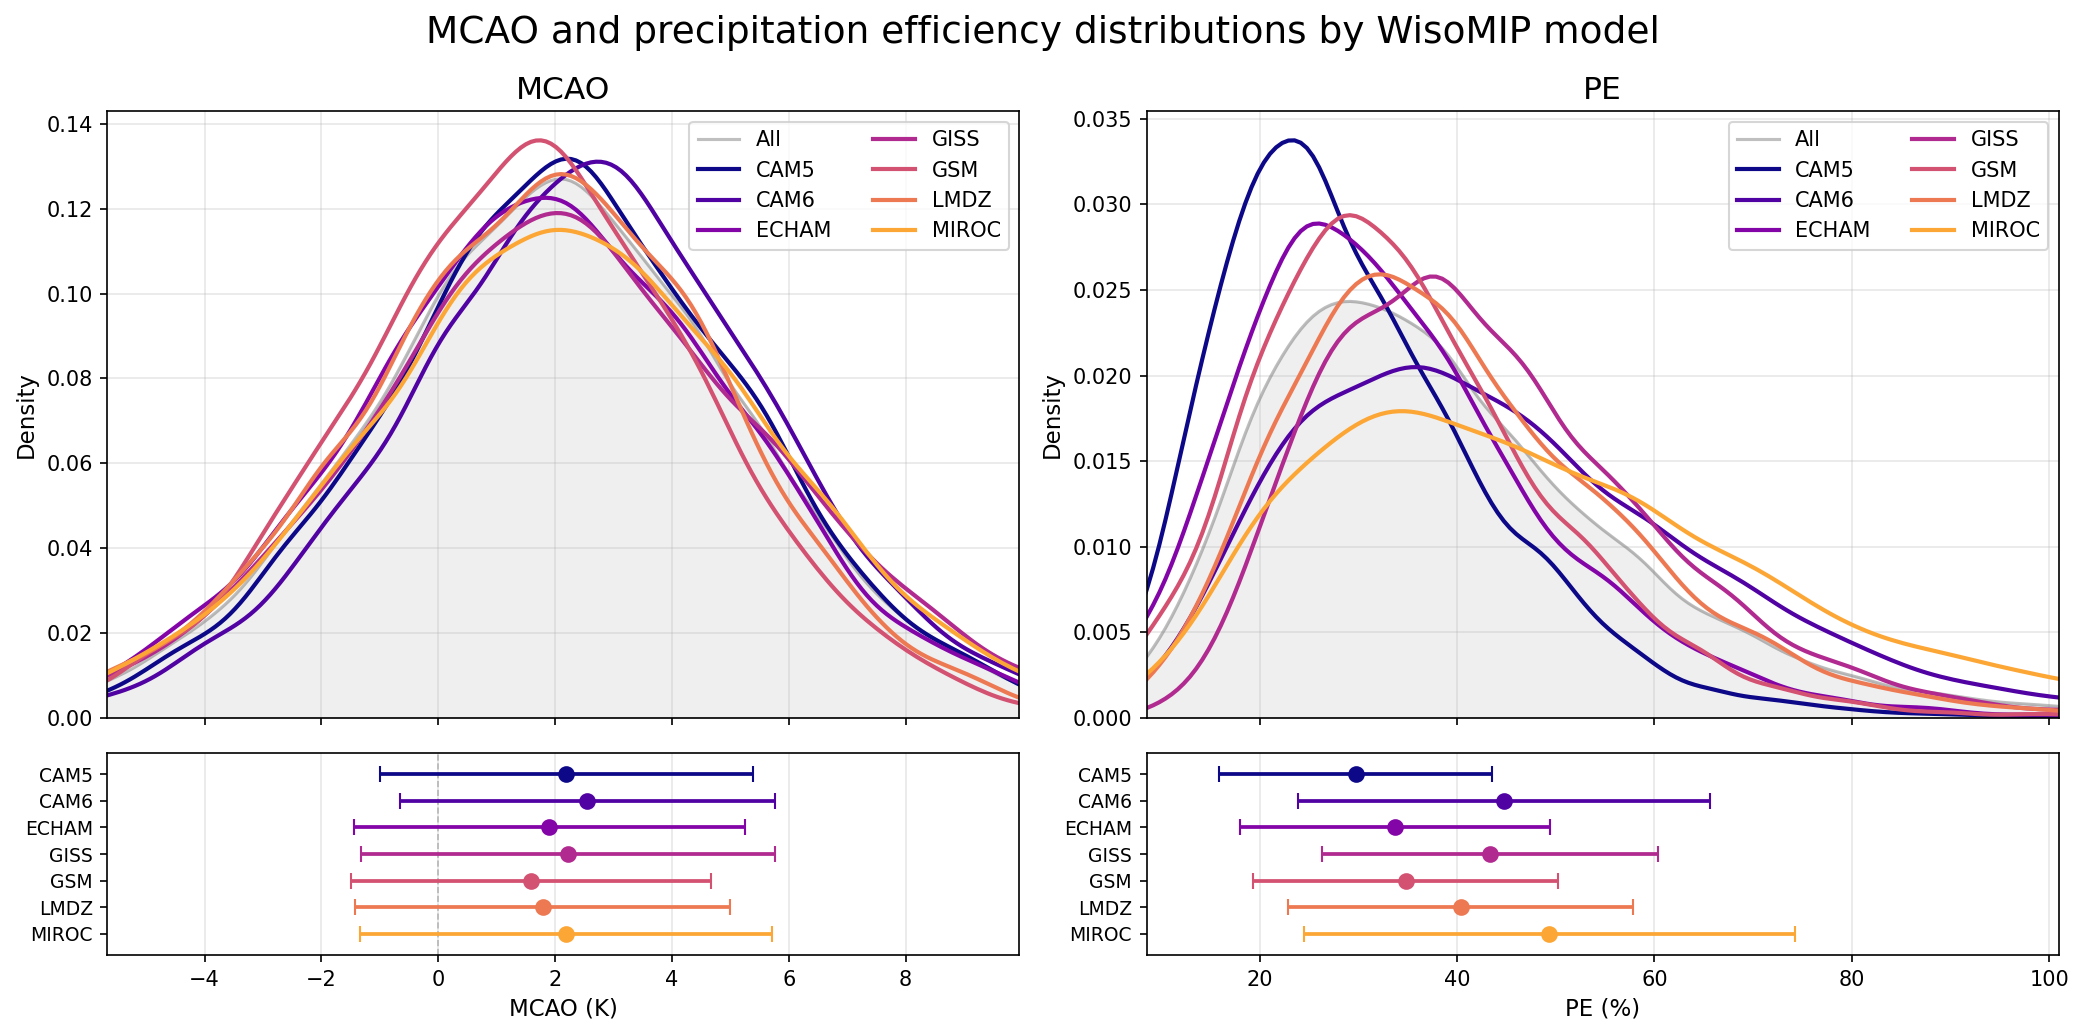
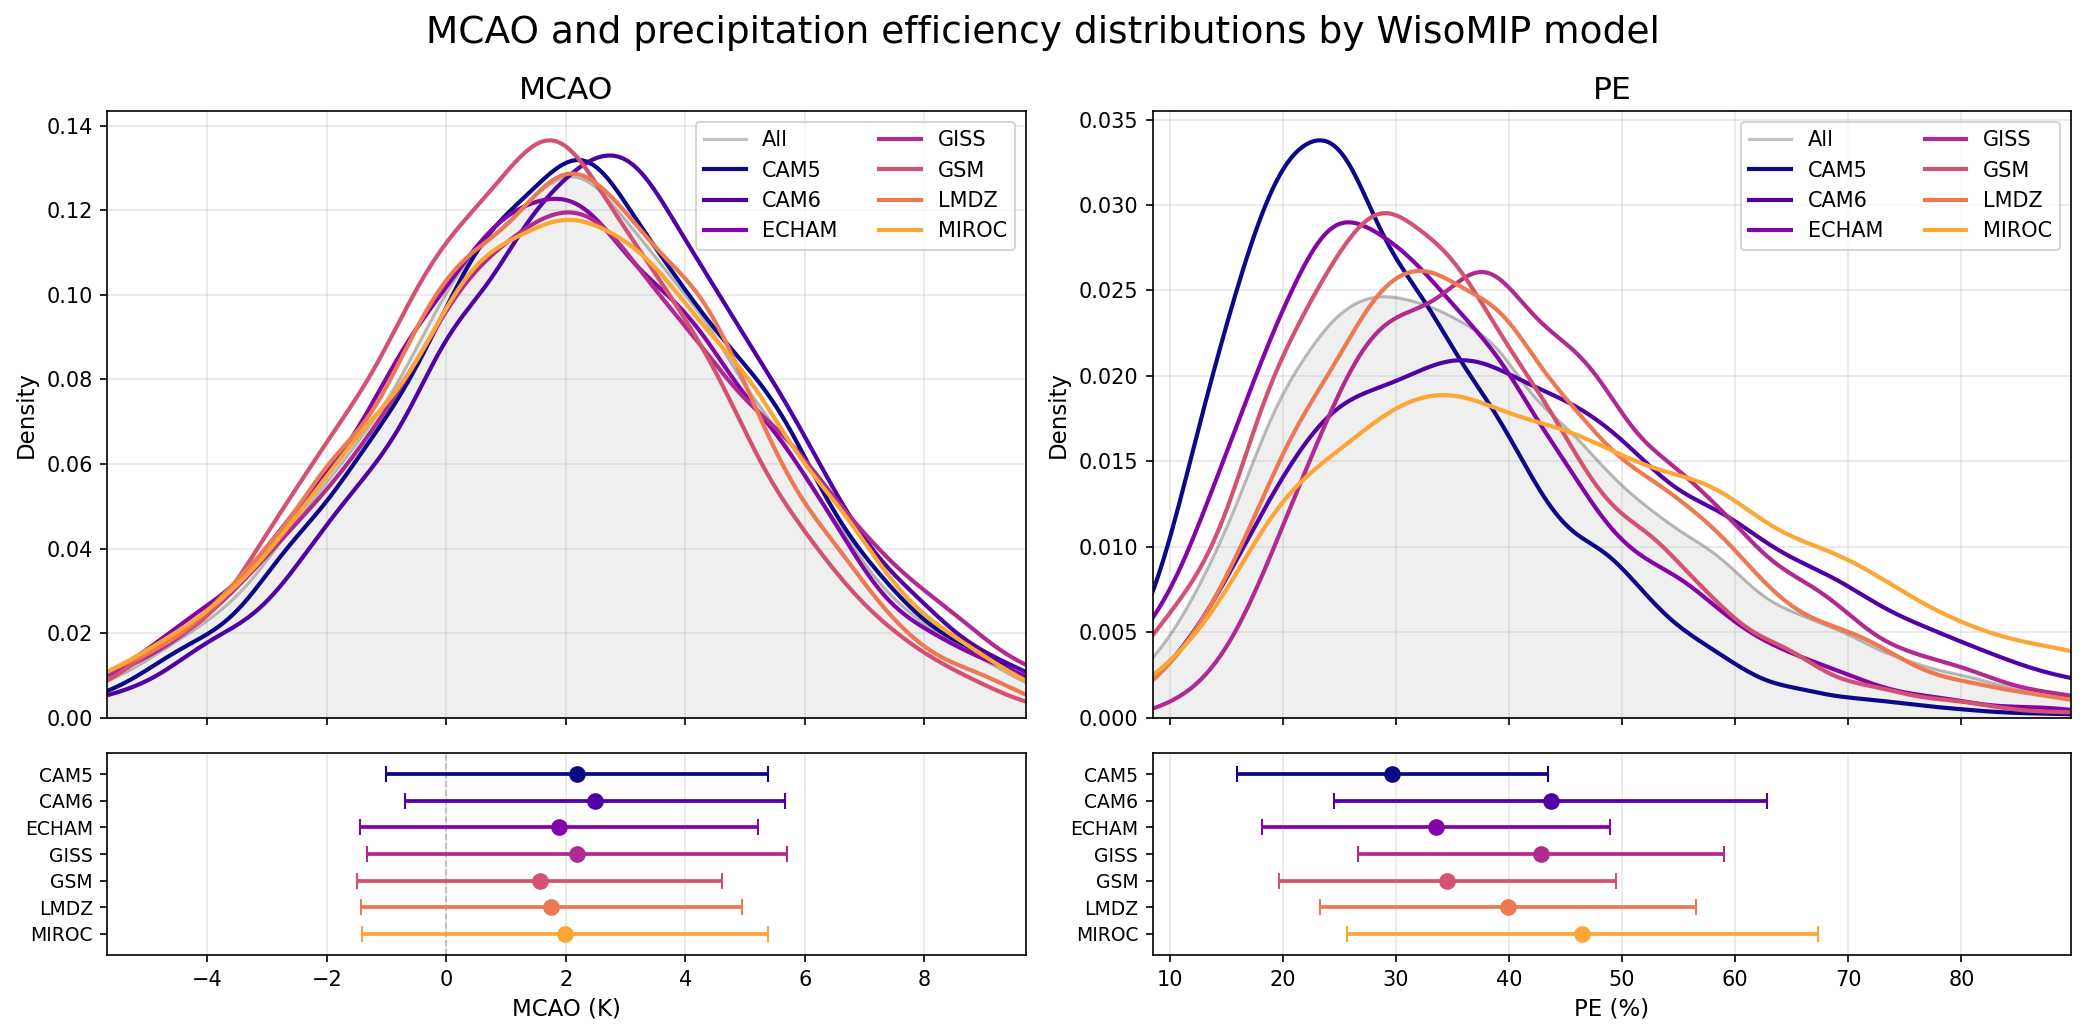
wisomip colored plots

diff --git a/output/remote/swing3/plots/swing3.md b/output/remote/swing3/plots/swing3.md
@@ -8,9 +8,38 @@
 
 ## PE vs MCAO Hexbin by Model
 
+PE truncated at 100% (values > 100% excluded).
+
 ![](pe_vs_mcao_hexbin_by_model.png)
 
 ## Distributions by Model
+PE truncated at 100% (values > 100% excluded).
 The x-axis is limited to between the first and 99th percentiles of all observations.
 
 ![](kde_by_model.png)
+
+## PE vs MCAO Colored by Overlay Fields
+
+All plots below use PE <= 100% only.
+
+### Isotopes
+
+| dD precipitation (median) | d-excess precipitation (median) |
+|--|--|
+| ![](pe_vs_mcao_hexbin_dDp_median.png) | ![](pe_vs_mcao_hexbin_dexcessp_median.png) |
+
+| dD vapor 600-800 hPa (mean) | dD vapor 800-925 hPa (mean) |
+|--|--|
+| ![](pe_vs_mcao_hexbin_dD_ft_mean.png) | ![](pe_vs_mcao_hexbin_dD_bl_mean.png) |
+
+### Surface Fields
+
+For pr/ev: grid cells with evaporation <= 0 are excluded before computing the ratio, so that we can take the natural log (for better color definition).
+
+| Specific humidity (median) | Precipitation rate (mean) |
+|--|--|
+| ![](pe_vs_mcao_hexbin_sh_median.png) | ![](pe_vs_mcao_hexbin_pr_mean.png) |
+
+| Evaporation rate (mean) | ln(precipitation/evaporation) (mean) |
+|--|--|
+| ![](pe_vs_mcao_hexbin_ev_mean.png) | ![](pe_vs_mcao_hexbin_pr_over_ev_mean.png) |
